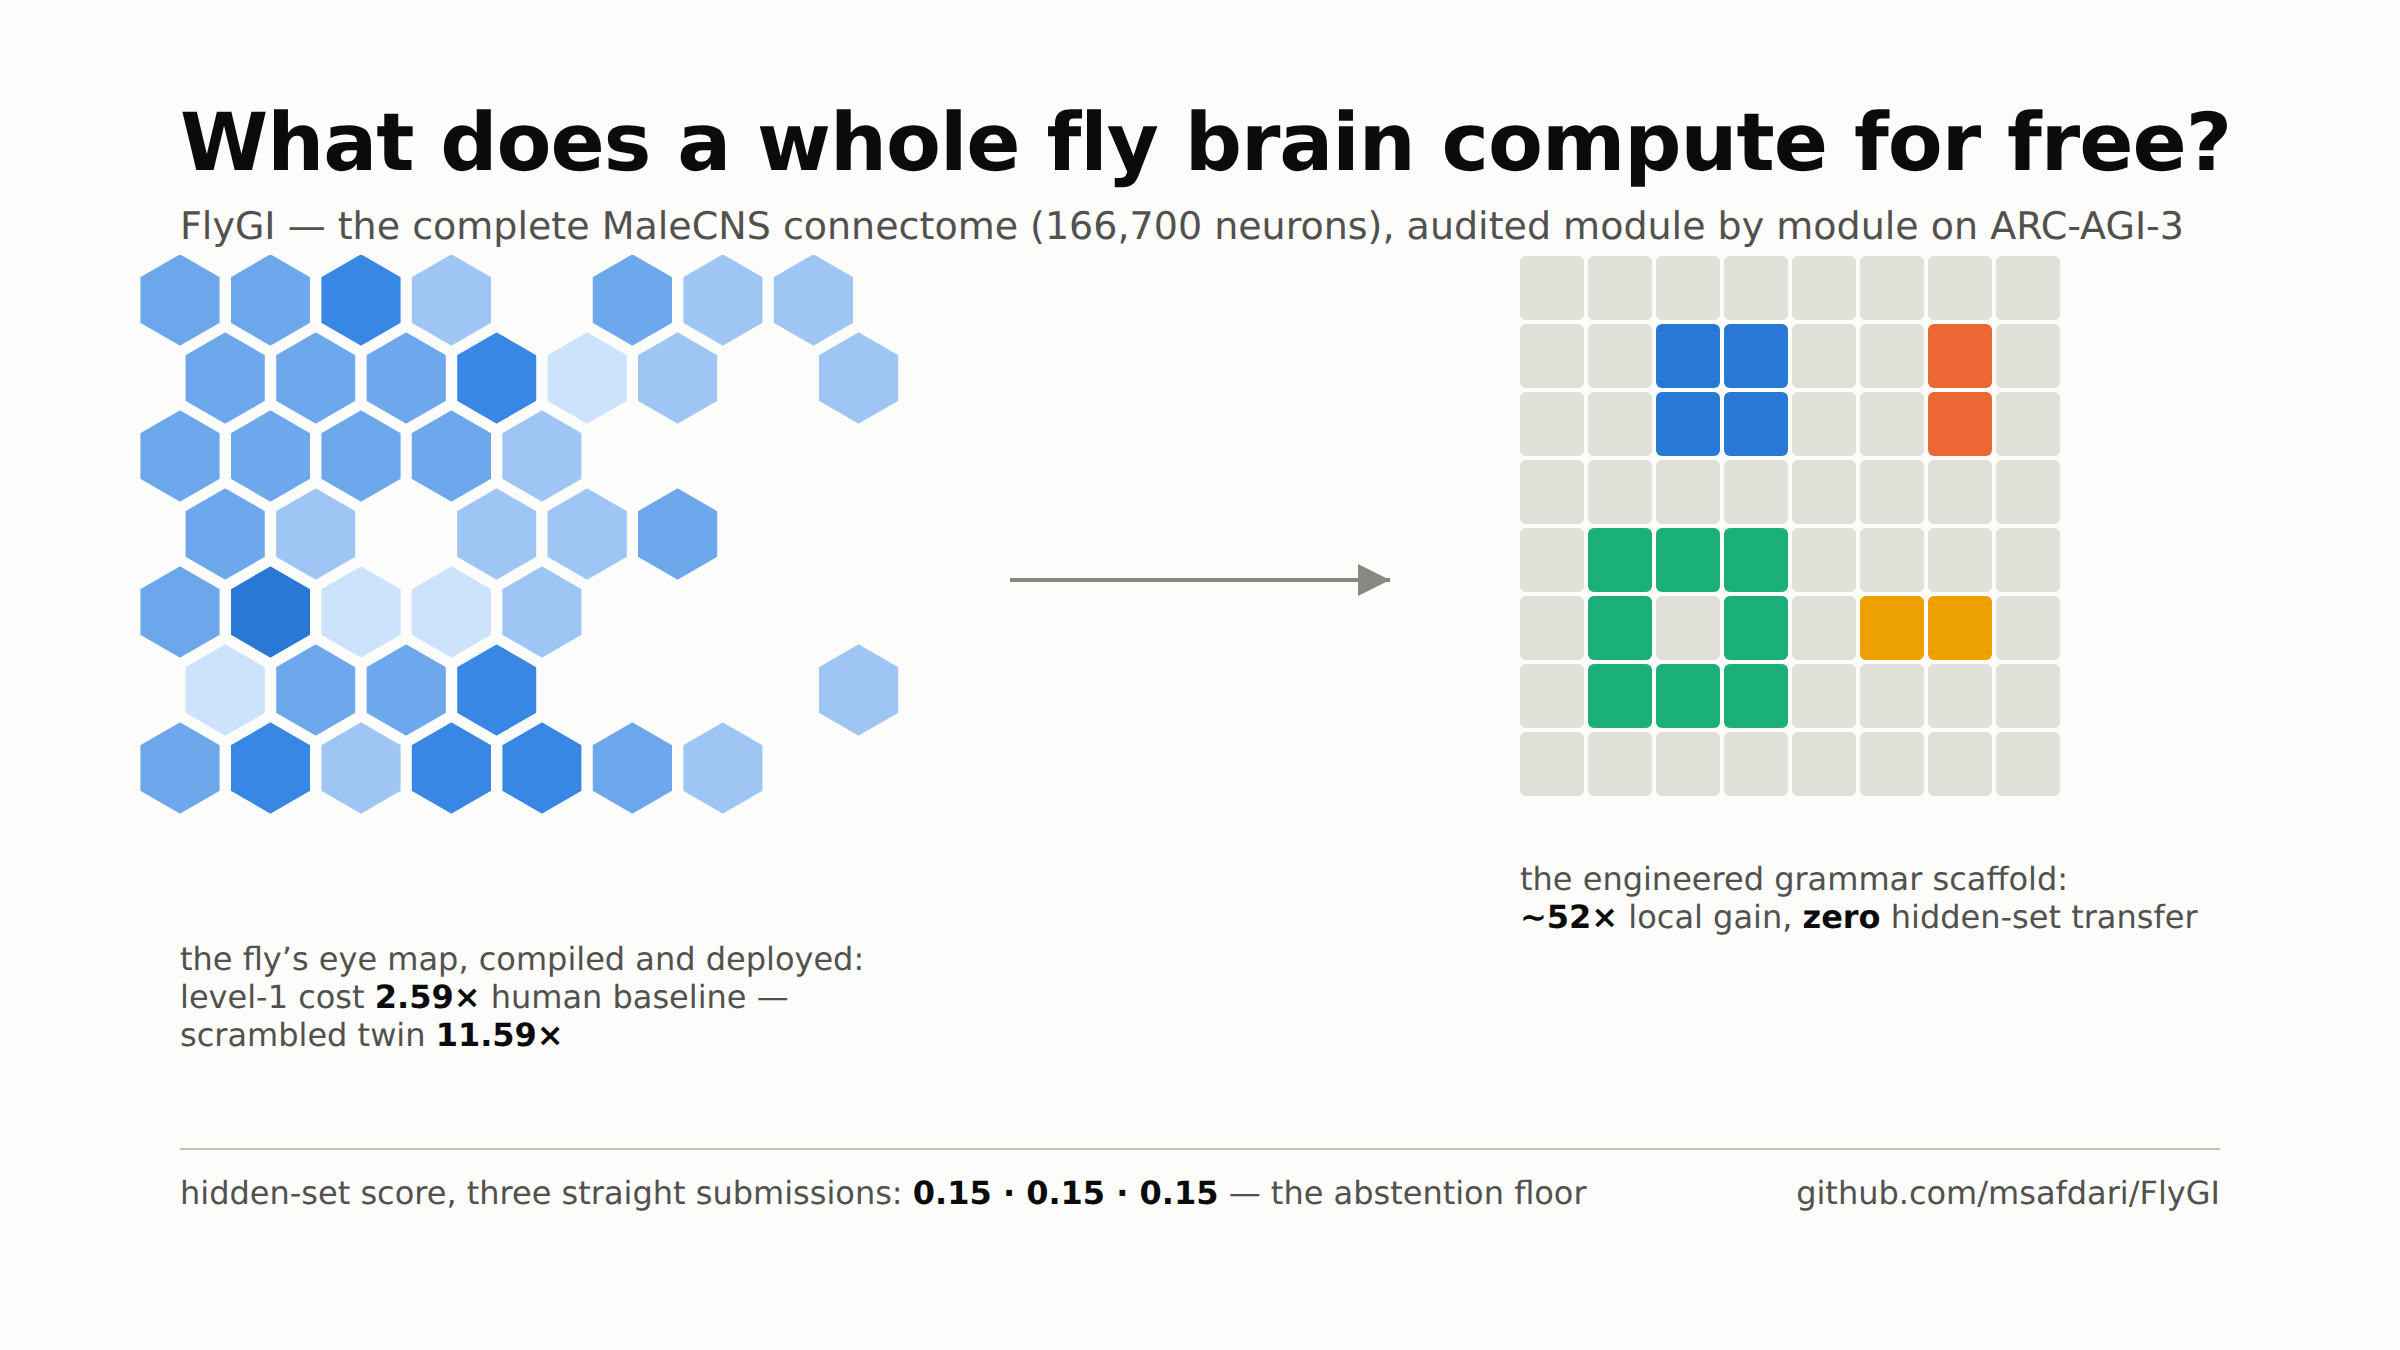
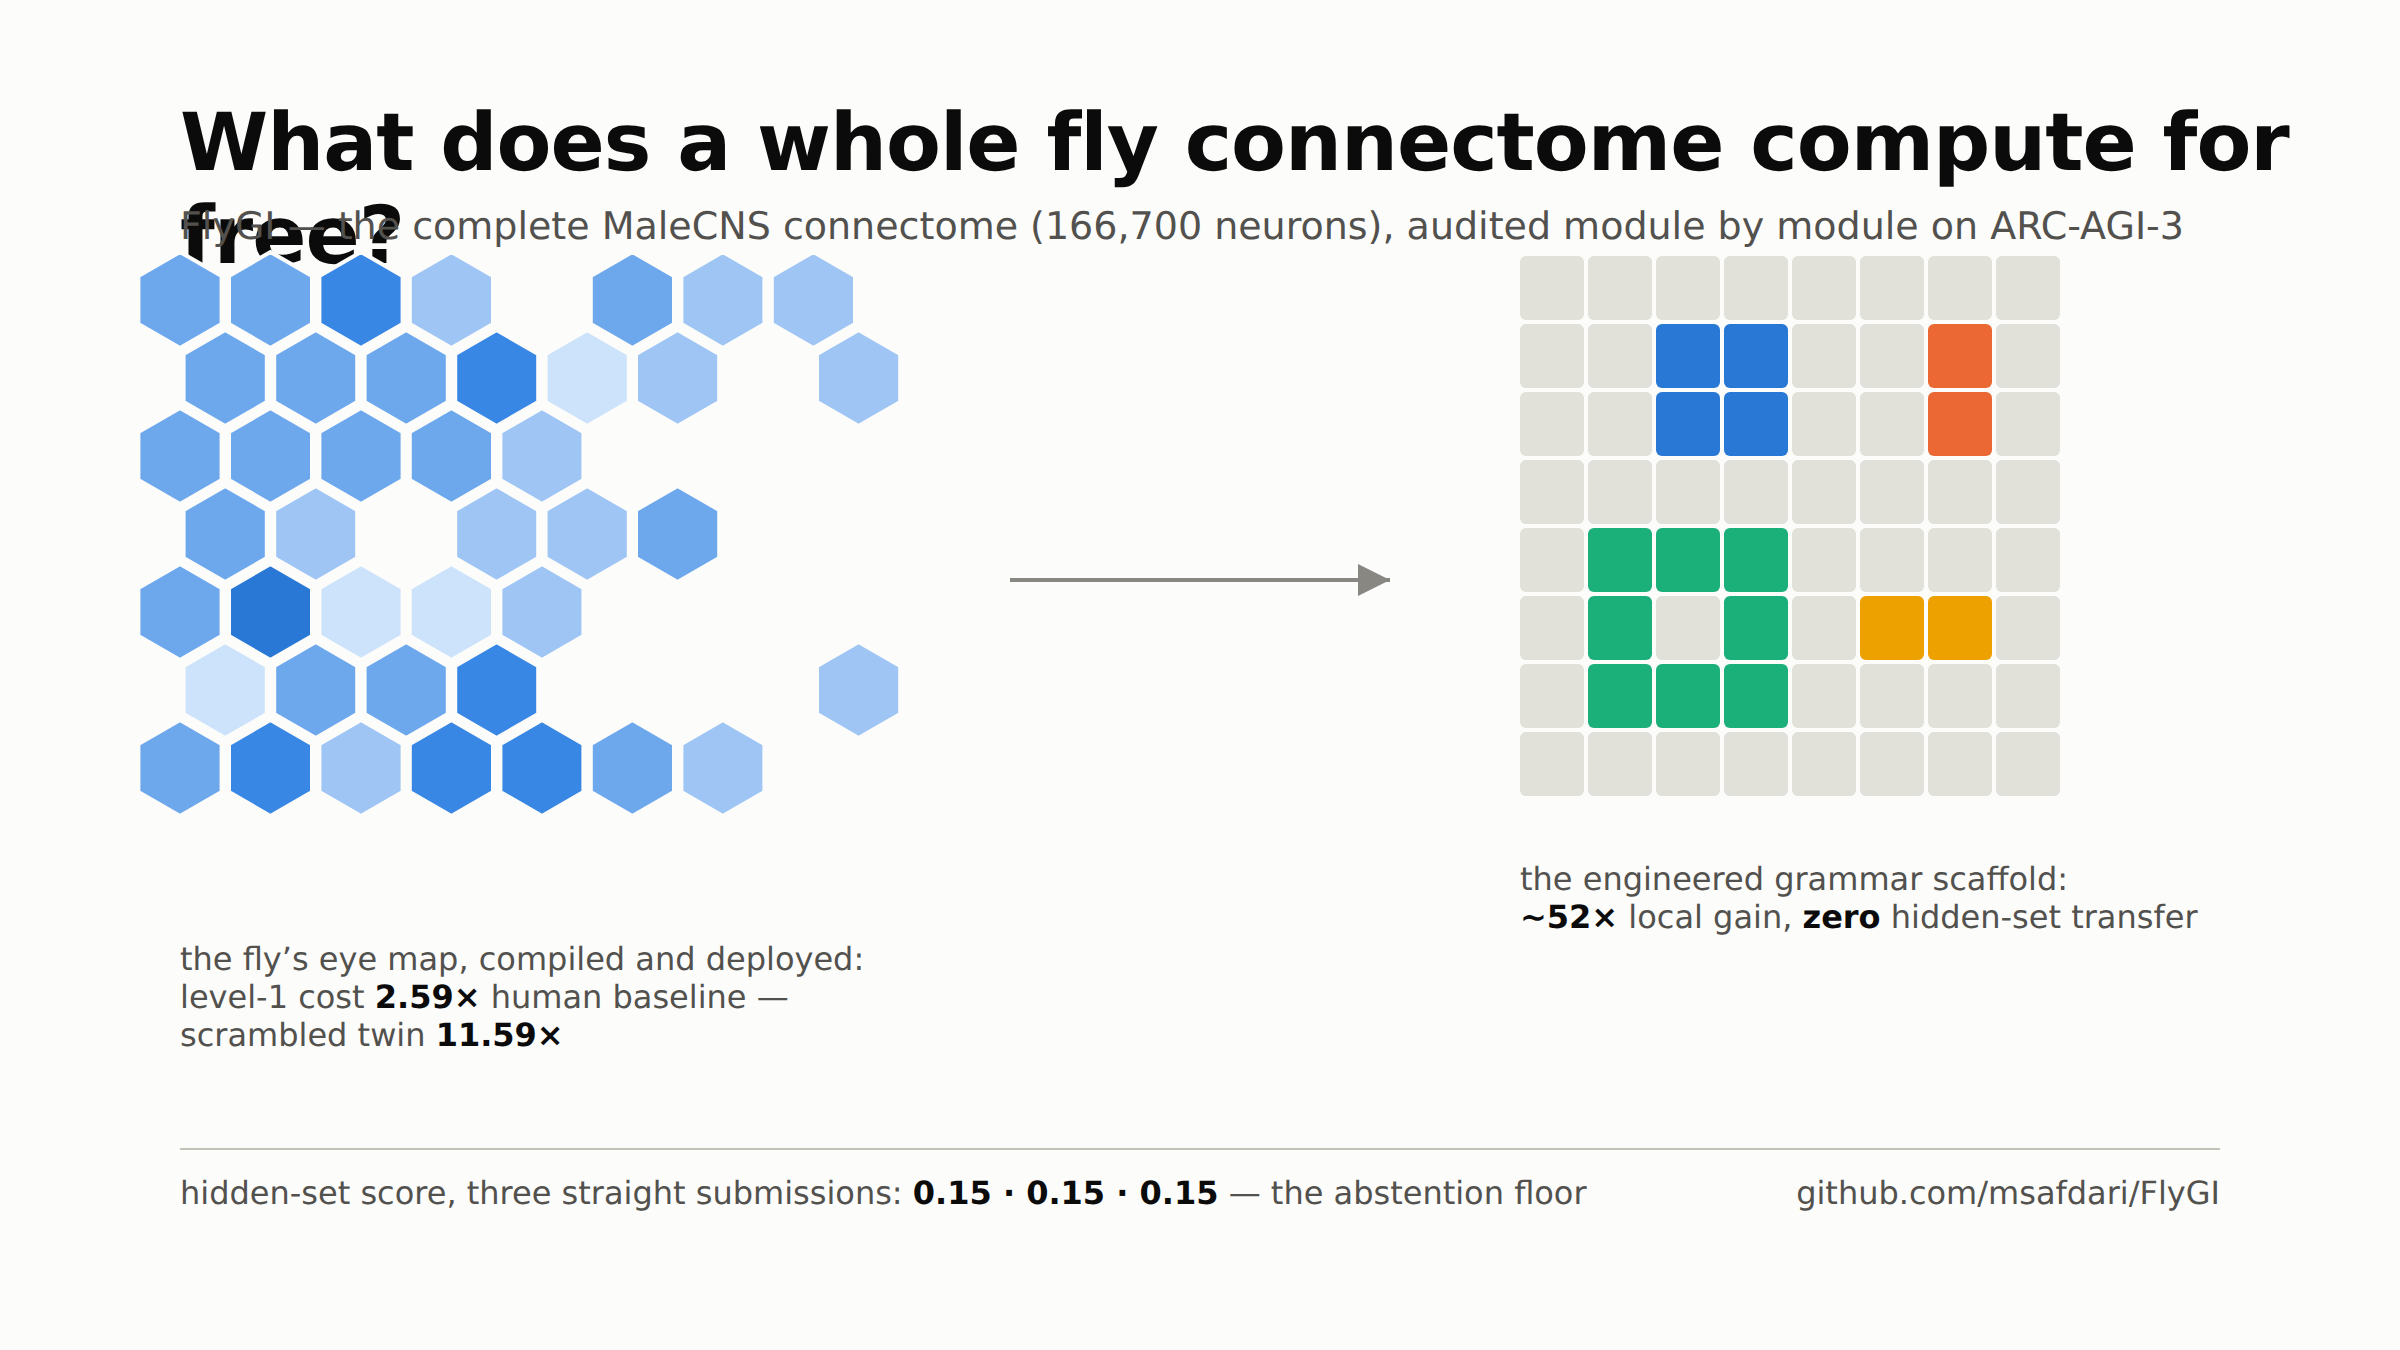
Task 1: apply all 23 compliance-gate findings to the outward artifacts
Model-vs-fly scoping (class-2/2.5 models passed biology bands, not 'the
fly'), the dynamics-OFF disclosure added to the X one-liner, 'brain' ->
'connectome' everywhere including the regenerated cover, the eye-map
boundary sharpened to 'hidden-set contribution never isolated — no
scrambled-map control ever ran on Kaggle' (writeup, posts, notebook, and
now the factsheet), spectral-radius operating point attached, and the
demo-wave sentences rescoped to the dated survey. Writeup body: 1,433
words.

Claude-Session: https://claude.ai/code/session_01CNbt1YrQswFFGBjLABJjvC

Changed region(s): [[0.5, 0.0622, 0.9688, 0.1556], [0.0625, 0.1556, 0.1875, 0.2178]]

diff --git a/docs/arenas/task1_arc_paper/media/cover.html b/docs/arenas/task1_arc_paper/media/cover.html
@@ -11,7 +11,7 @@
            padding-top: 12px; font-size: 16px; color: #52514e; display: flex; justify-content: space-between; }
 </style>
 <body>
-  <div class="t">What does a whole fly brain compute for free?</div>
+  <div class="t">What does a whole fly connectome compute for free?</div>
   <div class="s">FlyGI &mdash; the complete MaleCNS connectome (166,700 neurons), audited module by module on ARC-AGI-3</div>
   <svg style="position:absolute;left:0;top:0" width="1200" height="675">
     <polygon points="90.0,126.0 110.8,138.0 110.8,162.0 90.0,174.0 69.2,162.0 69.2,138.0" fill="#6da7ec" stroke="#fcfcfb" stroke-width="2"/>

diff --git a/docs/arenas/task1_arc_paper/linkedin_post.md b/docs/arenas/task1_arc_paper/linkedin_post.md
@@ -6,19 +6,21 @@ you; edit voice freely — the numbers must not drift from the factsheet.)*
 
 ---
 
-**Title: I wired a complete fly brain to an AI benchmark. Here's what it
+**Title: I wired a complete fly connectome to an AI benchmark. Here's what it
 actually computed — and what it didn't.**
 
 This September, hooking a fruit-fly connectome up to video games became a
 genre. Doom, Mario 64, Beat Saber — dozens of projects dropped the newly
-released MaleCNS wiring diagram (166,700 neurons, every synapse mapped) into
-a simulator and streamed the result. The common critique is fair: most of
-those demos are a frozen graph plus a hand-written readout. You can't tell
-what the brain did, because nothing separates the brain from the plumbing.
+mapped fly connectomes (MaleCNS, FlyWire) into a simulator and streamed the
+result. The common critique is fair: most of
+those demos are a frozen graph plus a hand-written readout. In most of them you can't tell what the wiring did — the survey behind this
+post (2026-09-30) found one demo running wiring controls, and none running
+validation, input gating and controls together.
 
 For the past weeks I've been running the opposite experiment, in public, on
-ARC-AGI-3 — the interactive reasoning benchmark where humans solve everything
-and frontier AI still struggles. One rule, written down on day one:
+ARC-AGI-3 — the interactive reasoning benchmark designed to be easy for
+humans and hard for current AI. The substrate: the complete MaleCNS
+connectome, 166,700 retained neurons in our compiled graph. One rule, written into the repository's operating directive:
 **everything goes through the fly, or nothing goes at all.** Every circuit
 gets its biology validated first, gets input it can actually use, and then
 has to beat its own shuffled twin — the same anatomy, degree-for-degree, with
@@ -31,8 +33,8 @@ Here's what the audit measured.
 
 **The honest headline is a pair.** Our engineered scaffold — thirteen
 hand-built, game-specific action grammars — multiplied our local score ~52x
-(0.55 → 28.74 on matched competition-mode runs). On Kaggle's hidden games it
-scored 0.15, three submissions in a row. 0.15 is the abstention floor: it's
+(0.55 → 28.74 on matched competition-mode runs). On Kaggle's hidden games, every rung
+of this ladder scored 0.15 — three submissions in a row. 0.15 is the abstention floor: it's
 what an agent earns when nothing it knows matches anything it sees. Grammar
 transfer to unseen games measured exactly zero, three times.
 
@@ -42,24 +44,23 @@ Meanwhile the one fly component those agents actually deployed — the eye's
 anatomical map, compiled straight from the connectome, no dynamics, no
 training — completed first levels at 2.59x the human action baseline, where
 an identical agent with a scrambled map needed 11.59x. A 4.5x efficiency gap
-attributable to anatomy alone. Small, real, and the only deployed component
-that survived its own control. (Its transfer to hidden games was never
-measured — boundaries matter.)
+attributable to anatomy alone. Small, real — and it survived its own control. (Its hidden-set contribution
+was never isolated: no scrambled-map control ever ran on Kaggle. Boundaries
+matter.)
 
-**And the deep circuits?** This is where it gets interesting. The fly's
-motion detectors and its learning center (the mushroom body) both PASSED
-their biology tests — sparse coding in the published band, direction
-selectivity in the published band. Then both lost the ARC task to their own
+**And the deep circuits?** This is where it gets interesting. Our class-2
+and class-2.5 models of the fly's motion detectors and learning center (the
+mushroom body) both PASSED their biology bands — sparse coding in the
+published range, direction selectivity in the published range. Then both lost the ARC task to their own
 shuffled twins: one-shot association, real wiring 0.600 vs rewired 0.800;
-motion decoding, real 0.3875 vs rewired 0.4306. The circuits work. Their
-specific wiring, on these tasks at these fidelities, points the wrong way —
-plausibly because 400 million years of evolution tuned it for fly inputs,
-not pixel grids.
+motion decoding, real 0.3875 vs rewired 0.4306. The simulated circuits work at their fidelities. The specific wiring, on
+these tasks, points the wrong way — plausibly because evolution tuned it for
+fly inputs, not pixel grids.
 
 [figure: fig3_controls_both_ways.png]
 
 The controls cut both ways, which is how you know they're honest: the same
-instrument flagged our own tested, shipped coordinate head as 3.29x *worse*
+instrument flagged our own tested, shipped coordinate head as exploring 3.29x *less*
 than random clicking, and showed a trained head that was genuinely
 connectome-dependent and still generalized zero. Well-tested and worse than
 random are compatible. So are connectome-dependent and useless.

diff --git a/docs/arenas/task1_arc_paper/x_post.md b/docs/arenas/task1_arc_paper/x_post.md
@@ -4,19 +4,20 @@
 thread. Attach media/cover.png to the lead post; figures 1–3 to thread
 tweets as marked. Character counts exclude the link, which X shortens.)*
 
-## Option A — single post (~270 chars)
+## Option A — single post (270 chars as X counts it)
 
-> I wired the complete fruit-fly connectome (166,700 neurons) to ARC-AGI-3 —
-> with controls. Our engineered scaffold gained ~52x locally and transferred
-> ZERO to hidden games (0.15 x3). The fly's eye map beat its scrambled twin
-> 4.5x. Full audit, open: github.com/msafdari/FlyGI
+> I audited the complete fruit-fly connectome (166,700 neurons) on
+> ARC-AGI-3, with controls. Scored agents used only its static eye map
+> (dynamics off): beat its scrambled twin 4.5x. Engineered scaffold: ~52x
+> locally, ZERO hidden transfer (0.15 x3). github.com/msafdari/FlyGI
 
 ## Option B — thread
 
 **1/** (attach cover.png)
-Everyone wired the new fly connectome to Doom this September. We wired it to
-ARC-AGI-3 instead — with degree-preserving controls on every claim. The
-results cut in both directions. 🧵
+Dozens of projects wired the newly mapped fly connectomes to Doom this
+September. We put one on ARC-AGI-3 instead — with matched controls
+(degree-preserving rewires, scrambled twins) on every claim. The results cut
+in both directions. 🧵
 
 **2/** (attach fig1_ladder_vs_hidden.png)
 Our engineered scaffold (13 hand-built game grammars) grew the local score
@@ -25,14 +26,14 @@ Our engineered scaffold (13 hand-built game grammars) grew the local score
 exactly zero, three times.
 
 **3/**
-The one fly component we actually deployed — the eye's anatomical map,
-straight from the connectome, zero training — completed first levels at
+The one fly component we actually deployed — the eye's static anatomical map,
+straight from the connectome — no dynamics, zero training — completed first levels at
 2.59x the human action baseline vs 11.59x for a scrambled-map twin. A 4.5x
 gap attributable to anatomy alone. Small, real, control-backed.
 
 **4/** (attach fig3_controls_both_ways.png)
-The deep circuits are the twist: the mushroom body and T4/T5 motion
-detectors PASSED their biology benchmarks — then both lost the ARC task to
+The deep circuits are the twist: our class-2 mushroom-body and class-2.5 T4/T5 models PASSED their biology
+benchmarks — then both lost the ARC task to
 their own shuffled twins (0.600 vs 0.800; 0.3875 vs 0.4306). The wiring is
 real. On pixel grids, at these fidelities, it points the wrong way.
 
@@ -44,7 +45,8 @@ random are compatible.
 
 **6/**
 Why publish a 0.15? Because "brain plays game" demos are everywhere and
-attribution is nowhere. Validate the biology → gate the input → test vs
+attribution is almost nowhere — no demo we found runs validation, input
+gates and controls together. Validate the biology → gate the input → test vs
 rewired twins. Everything's open — code, worklog, preregistrations, and our
 ARC Prize 2026 Paper Track writeup:
 github.com/msafdari/FlyGI

diff --git a/docs/arenas/task1_arc_paper/writeup.md b/docs/arenas/task1_arc_paper/writeup.md
@@ -88,8 +88,8 @@ replicated 0.3058, vs 0.1875 permuted). The boundary travels with the win:
 the same ladder failed its breadth bar, 17 levels vs the champion's 21. One
 further configuration, sg-bioeye-t4t5, is the league's only HELPS: +0.0717
 [+0.005, +0.156], p=0.070 over 75 matched rows against its scrambled control
-— recorded as borderline at ship time. The eye map's hidden-set transfer was
-never measured in either direction.
+— recorded as borderline at ship time. The eye map's hidden-set contribution was
+never isolated — no scrambled-map control ever ran on Kaggle.
 
 ## The verdict matrix: controls firing both ways
 

diff --git a/docs/arenas/task1_arc_paper/factsheet.md b/docs/arenas/task1_arc_paper/factsheet.md
@@ -69,6 +69,9 @@ L=LEAGUE.md, R=EXPERIMENTS.yaml.
   on breadth (17 levels vs champion 21; 6-7 games vs 10), so the efficiency
   separation coexists with a measured breadth loss. Deployed as static
   anatomy metadata — no live dynamics. [W,R]
+  The eye map's hidden-set contribution was never isolated: no
+  scrambled-map control ever ran on Kaggle (the local league pair is the
+  only measured comparison). [W,L]
 - sg-bioeye-t4t5: +0.0717 [+0.005,+0.156] p=0.070, 22 vs 13 levels, 75
   matched rows, vs its scrambled control — the league's only HELPS;
   survived a hash-grade source audit; recorded as borderline at ship time.
